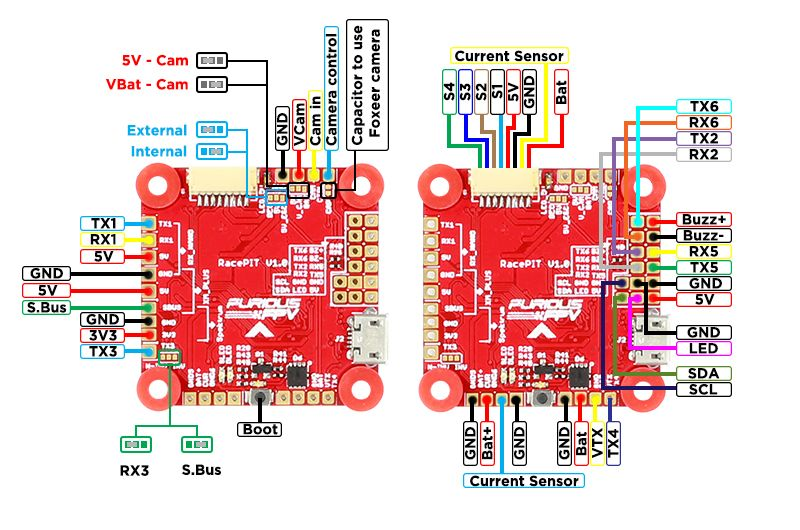
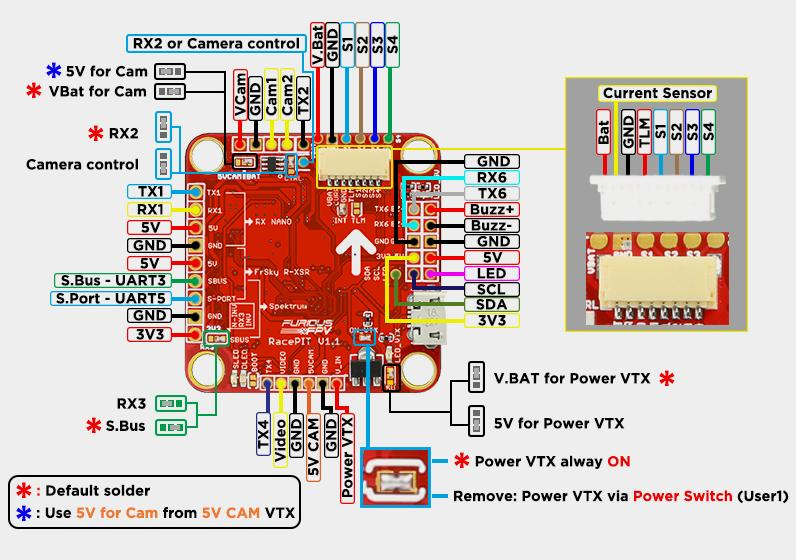
Add RacePIT mini (#8387)
Add RacePIT mini

diff --git a/src/main/target/FF_RACEPIT/hardware_revision.c b/src/main/target/FF_RACEPIT/hardware_revision.c
@@ -20,36 +20,38 @@
 
 #include <stdbool.h>
 #include <stdint.h>
+#include <stdlib.h>
 
 #include "platform.h"
 
-#ifdef USE_TARGET_CONFIG
+#include "build/build_config.h"
 
-#include "telemetry/telemetry.h"
-
-#include "pg/pinio.h"
-#include "pg/piniobox.h"
+#include "drivers/io.h"
+#include "drivers/time.h"
 
 #include "hardware_revision.h"
 
-#include "sensors/gyro.h"
+#define HW_PIN PC5
 
-#include "pg/gyrodev.h"
+uint8_t hardwareRevision = FF_RACEPIT_UNKNOWN;
 
-void targetConfiguration(void)
-{	
-    if (hardwareRevision == FF_RACEPIT_REV_1) {
-        gyroDeviceConfigMutable(0)->align = CW180_DEG;
+static IO_t HWDetectPinA = IO_NONE;
+
+void detectHardwareRevision(void)
+{
+    HWDetectPinA = IOGetByTag(IO_TAG(HW_PIN));
+    IOInit(HWDetectPinA, OWNER_SYSTEM, 0);
+    IOConfigGPIO(HWDetectPinA, IOCFG_IPU);
+
+    delayMicroseconds(10);  // allow configuration to settle
+
+    if (!IORead(HWDetectPinA)) {
+        hardwareRevision = FF_RACEPIT_REV_1;
+    } else {
+        hardwareRevision = FF_RACEPIT_REV_2;
     }
-    else {
-        gyroDeviceConfigMutable(0)->align = CW90_DEG_FLIP;
-    }
-
-    telemetryConfigMutable()->halfDuplex = false;
-
-    pinioConfigMutable()->config[1] = PINIO_CONFIG_OUT_INVERTED | PINIO_CONFIG_MODE_OUT_PP;
-	
-    pinioBoxConfigMutable()->permanentId[0] = 40;
-    pinioBoxConfigMutable()->permanentId[1] = 41;
 }
-#endif
+
+void updateHardwareRevision(void)
+{
+}

diff --git a/src/main/target/FF_RACEPIT/hardware_revision.h b/src/main/target/FF_RACEPIT/hardware_revision.h
@@ -18,38 +18,15 @@
  * If not, see <http://www.gnu.org/licenses/>.
  */
 
-#include <stdbool.h>
-#include <stdint.h>
+#pragma once
 
-#include "platform.h"
+typedef enum ffRacapitHardwareRevision_t {
+    FF_RACEPIT_UNKNOWN = 0,
+    FF_RACEPIT_REV_1, // RacePIT
+    FF_RACEPIT_REV_2, // RacePIT mini
+} ffRacepitHardwareRevision_e;
 
-#ifdef USE_TARGET_CONFIG
+extern uint8_t hardwareRevision;
 
-#include "telemetry/telemetry.h"
-
-#include "pg/pinio.h"
-#include "pg/piniobox.h"
-
-#include "hardware_revision.h"
-
-#include "sensors/gyro.h"
-
-#include "pg/gyrodev.h"
-
-void targetConfiguration(void)
-{	
-    if (hardwareRevision == FF_RACEPIT_REV_1) {
-        gyroDeviceConfigMutable(0)->align = CW180_DEG;
-    }
-    else {
-        gyroDeviceConfigMutable(0)->align = CW90_DEG_FLIP;
-    }
-
-    telemetryConfigMutable()->halfDuplex = false;
-
-    pinioConfigMutable()->config[1] = PINIO_CONFIG_OUT_INVERTED | PINIO_CONFIG_MODE_OUT_PP;
-	
-    pinioBoxConfigMutable()->permanentId[0] = 40;
-    pinioBoxConfigMutable()->permanentId[1] = 41;
-}
-#endif
+void updateHardwareRevision(void);
+void detectHardwareRevision(void);

diff --git a/src/main/target/FF_RACEPIT/target.h b/src/main/target/FF_RACEPIT/target.h
@@ -23,6 +23,8 @@
 #define USBD_PRODUCT_STRING     "RacePit"
 #define USE_TARGET_CONFIG
 
+#define USE_HARDWARE_REVISION_DETECTION
+
 /*--------------LED----------------*/
 #define LED0_PIN                PB9
 #define LED1_PIN                PB8
@@ -56,8 +58,6 @@
 
 #define GYRO_1_CS_PIN           SPI1_NSS_PIN
 #define GYRO_1_SPI_INSTANCE     SPI1
-
-#define GYRO_1_ALIGN            CW90_DEG_FLIP
 /*---------------------------------*/
 
 

diff --git a/docs/boards/Board - FF_RacePIT.md b/docs/boards/Board - FF_RacePIT.md
@@ -1,10 +1,10 @@
-# FuriusFPV RacePIT V1.0
+# FuriusFPV RacePIT (v1.x) and RacePIT mini (V2.x)
 
 ## Features
 - Built-in RealPIT for VTX power.
 - More UARTS (Full 6 Uart) for Simultaneous Connections of USB, Runcam Device, GPS, CRFS Rx, Black-box, Bluetooth
 - Selecting Internal 5V or External 5V ESC
-- 2 Port Camera Control and LED Strip for Simultaneous Connections
+- 2 Port Camera Control and LED Strip for Simultaneous Connections (RacePIT only)
 - Built-in ESC connector - Clean and Easy to Connect 4-in-1 ESC
 - Use MPU6000 accelerometers and gyroscopes
 - Ultra Simplified OSD Interface w/ No PC Necessary
@@ -20,7 +20,7 @@
 - STM32F405 main chip
 - Built-in REALPIT for VTX power supply
 - 6 UARTs 
-- Camera control, support foxxer (built-in capacitor) and another camera (without capacitor)
+- Camera control, support foxxer (built-in capacitor) and another camera (without capacitor) (RacePIT only)
 - LED strip control
 - MPU6000 
 - BEC 5V 1.5A 2-6S 
@@ -29,9 +29,7 @@
 - Current sensor support
 - 4 ESCs signal
 
-## BoardLayout
+## BoardLayout RacePIT
 ![RacePIT](images/FF_RacePIT.jpg)
-## Camera Connections
-![RacePIT](images/FF_RacePIT_CAM.jpg)
-## Connections
-![RacePIT](images/FF_RacePIT_Connection.jpg)
+## BoardLayout RacePIT mini
+![RacePIT](images/FF_RacePIT_mini.jpg)
